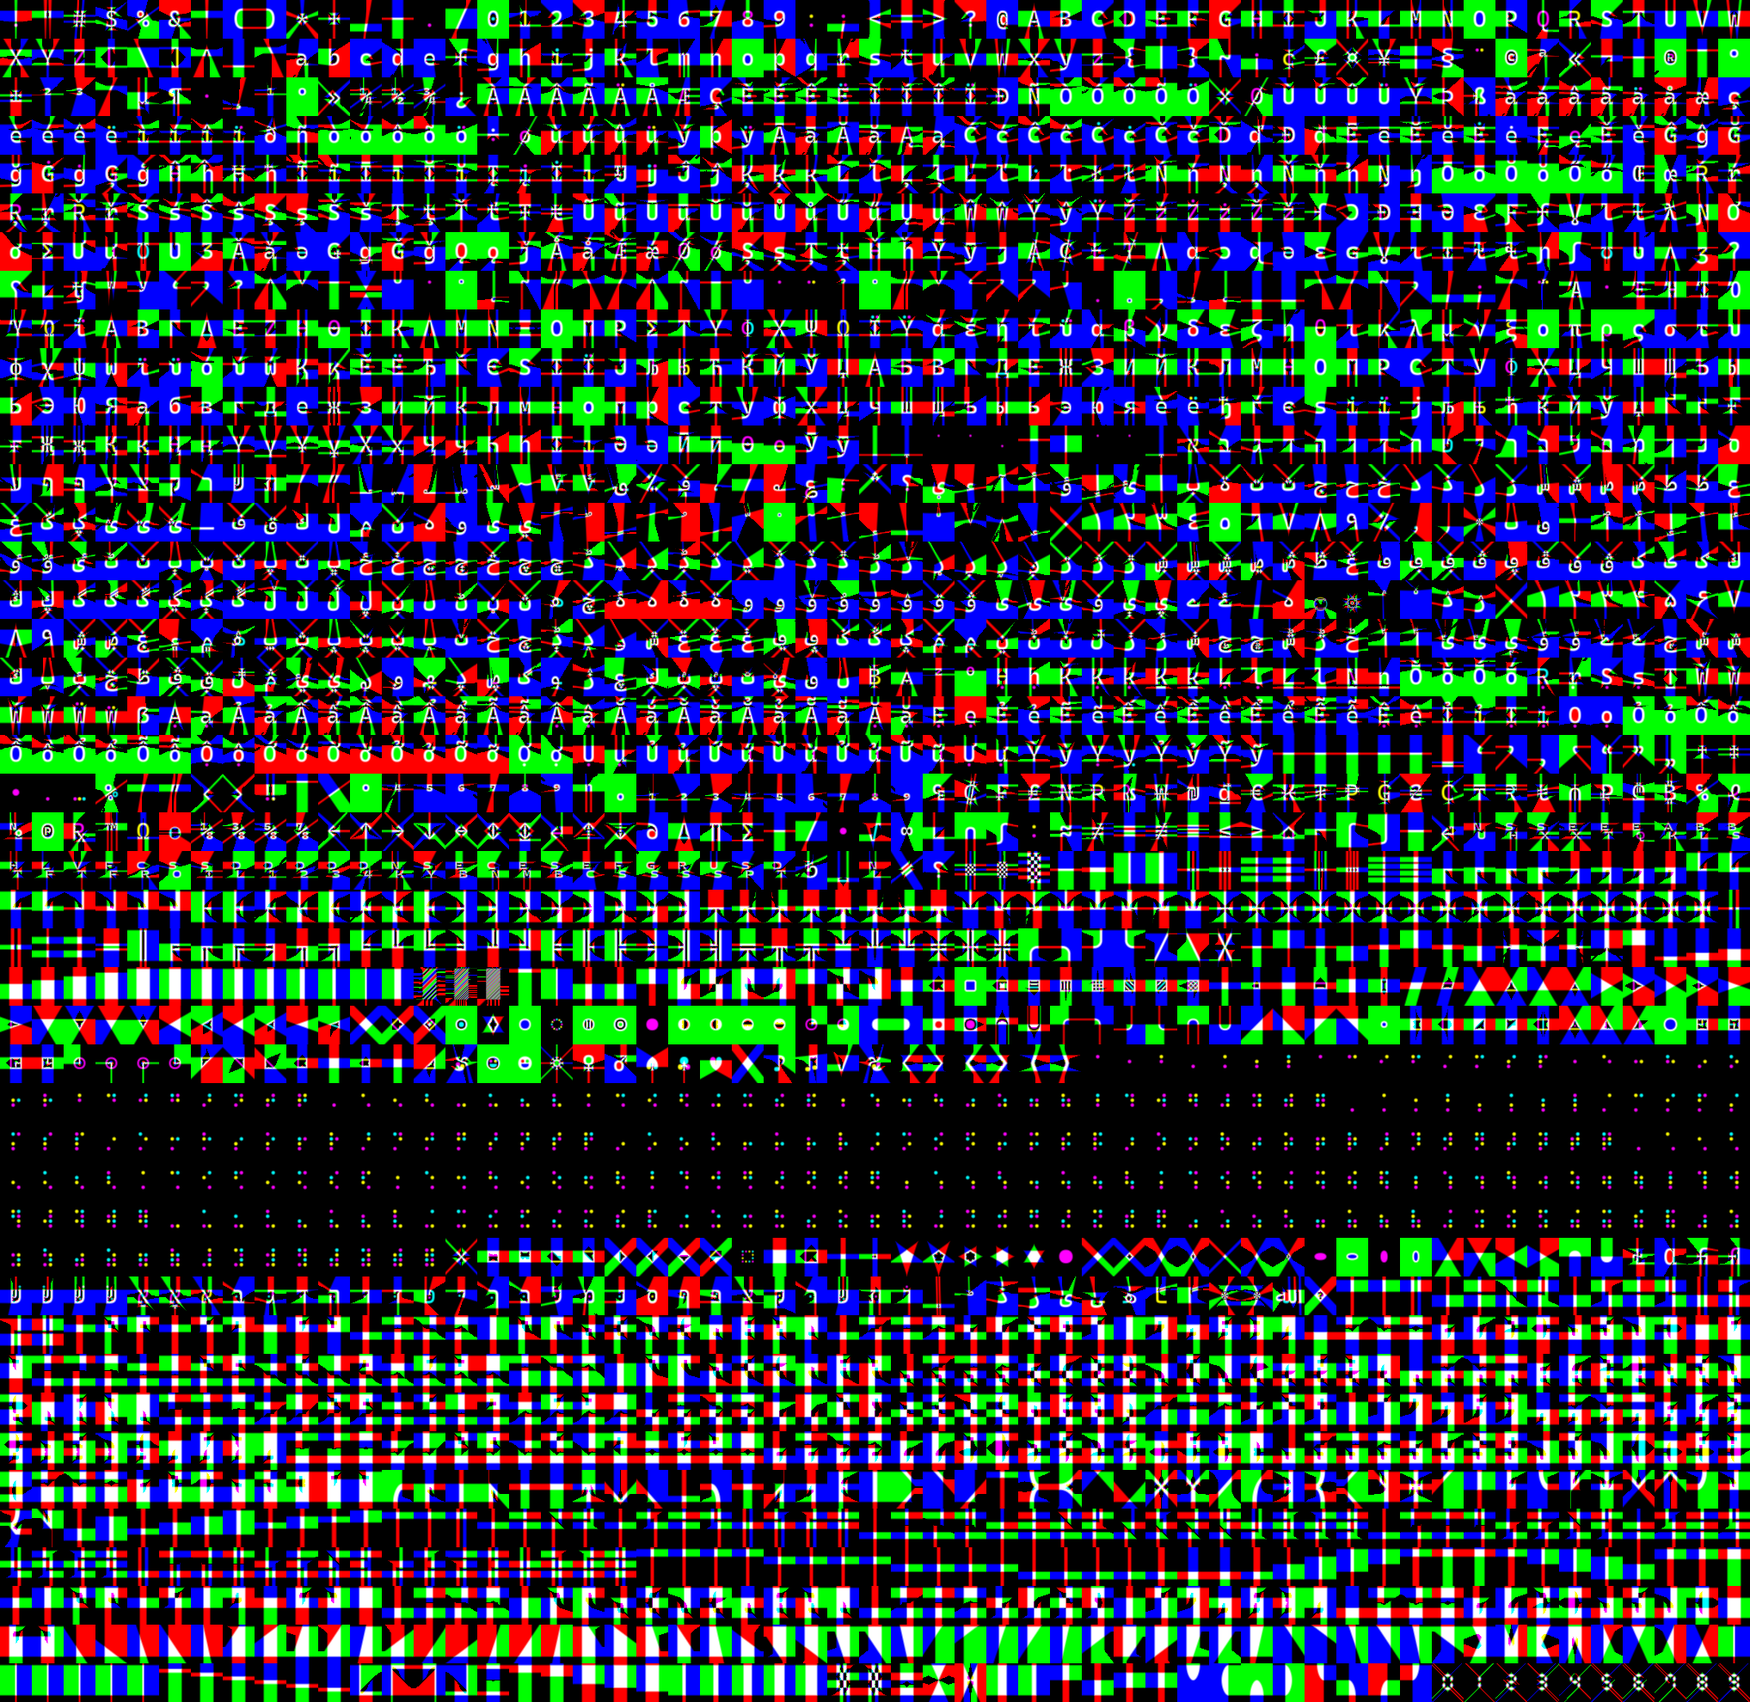
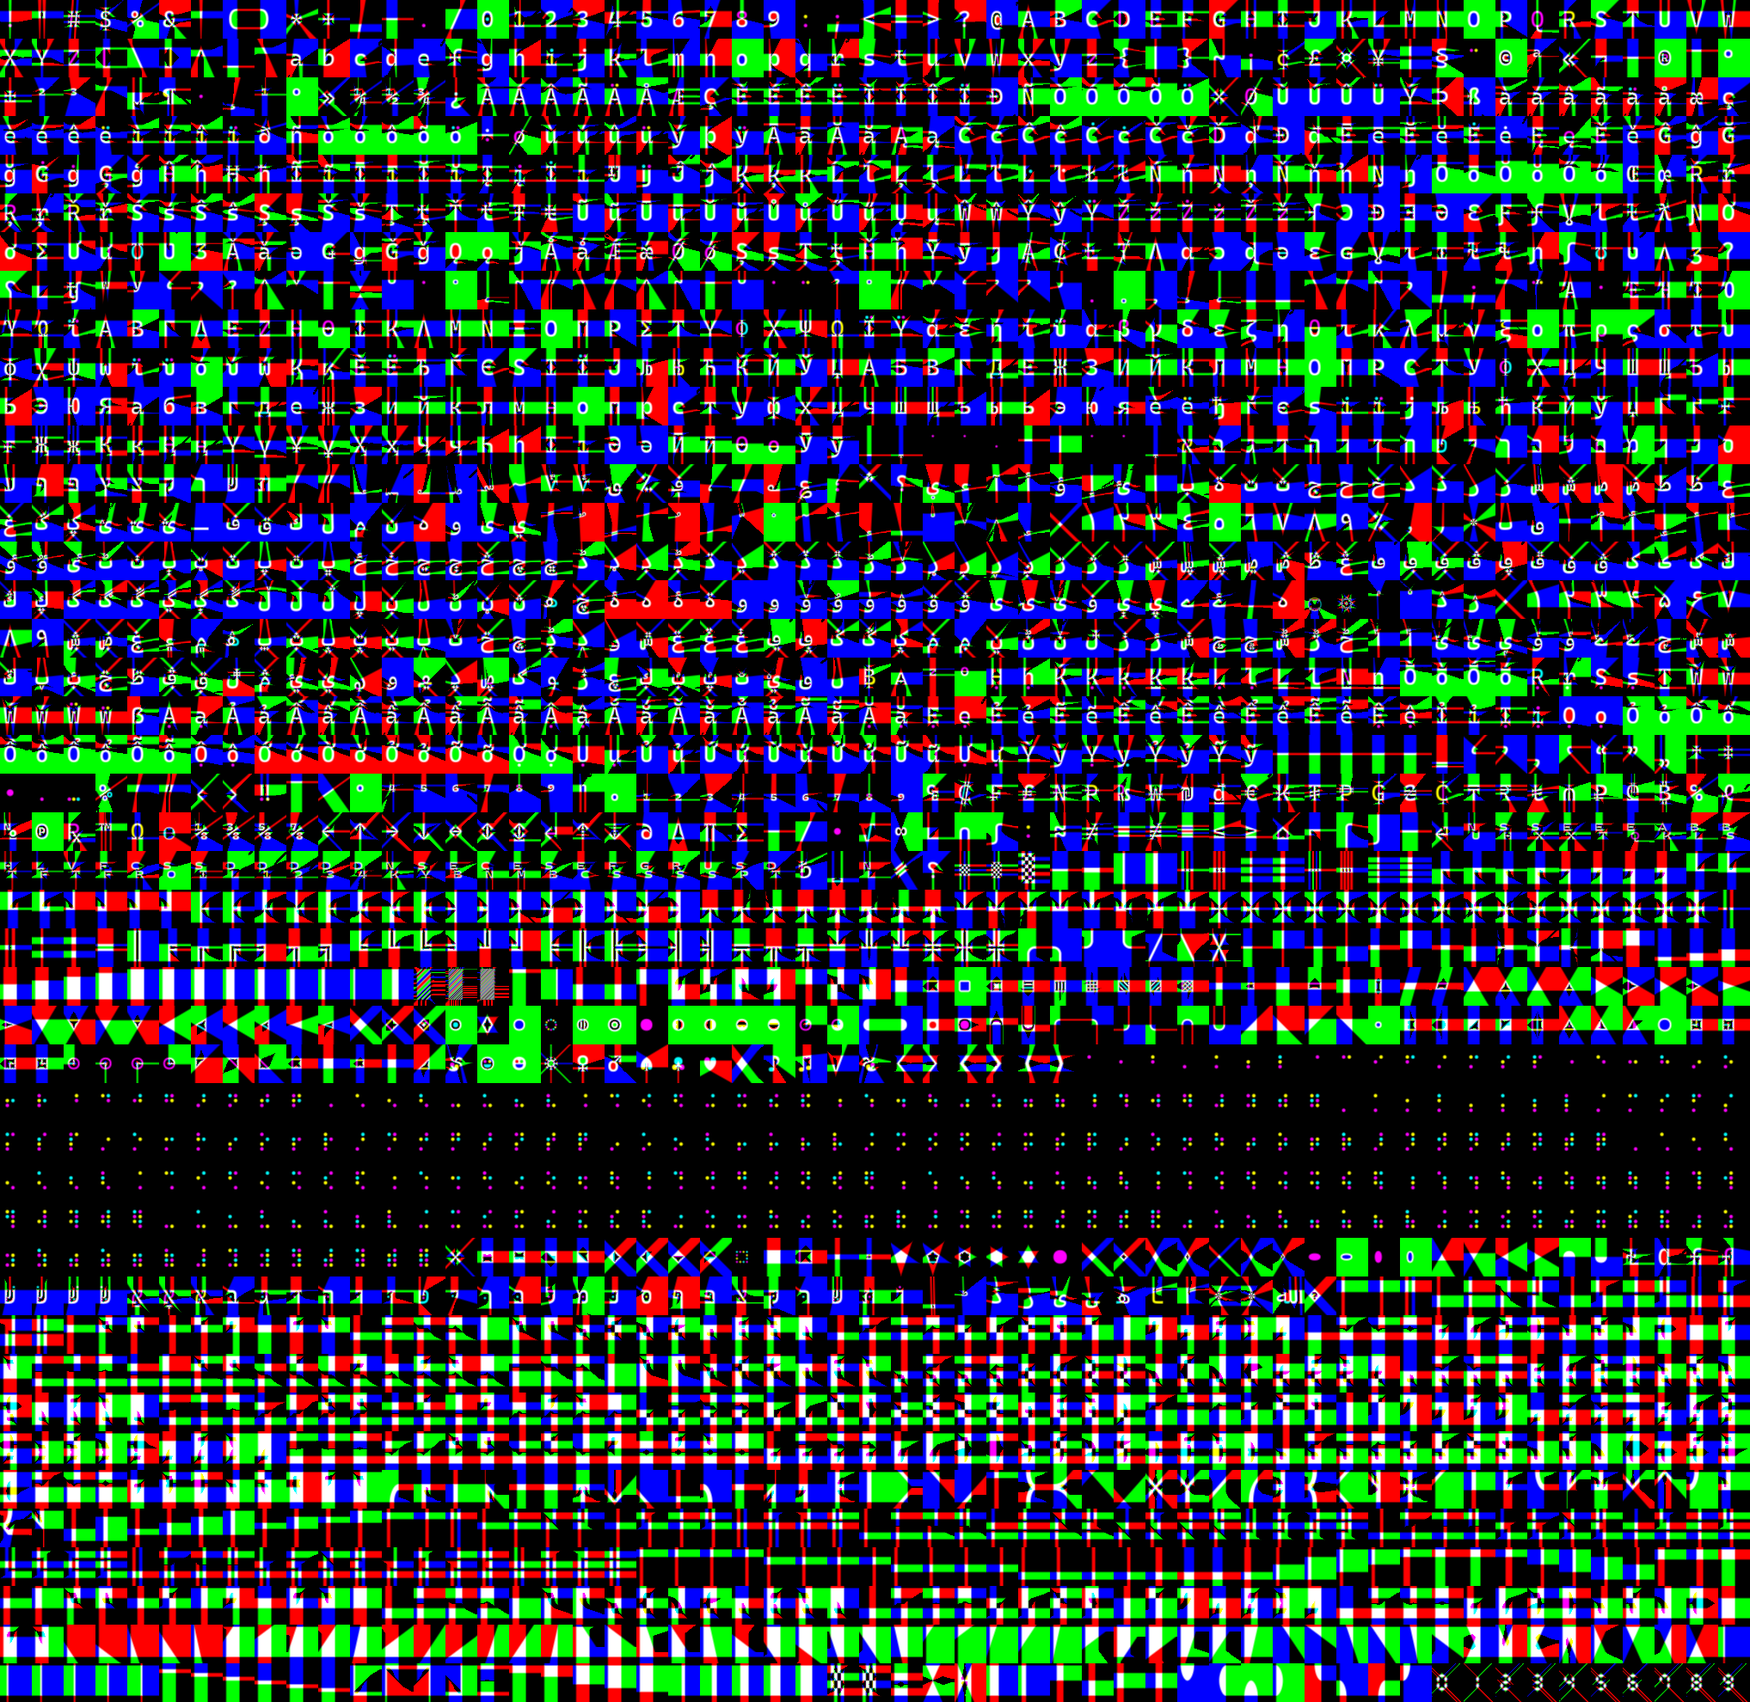
fix box character spacing

diff --git a/packages/core/src/TextEditorExtension.ts b/packages/core/src/TextEditorExtension.ts
@@ -14,6 +14,7 @@ import {
   applyFontFamilyToSelected,
   applyFontSizeToSelected,
   applyItalicToSelected,
+  applyLetterSpacingToSelected,
   applyLineHeightToSelected,
   applyUnderlineToSelected,
   getSelectionAlignment,
@@ -45,9 +46,14 @@ declare module '@infinitecanvas/core' {
       setUnderline: (underline: boolean) => void
       setAlignment: (alignment: TextAlign) => void
       setColor: (color: string) => void
-      setFontSize: (fontSize: number) => void
+      setFontSize: (fontSizePx: number) => void
       setFontFamily: (fontFamily: FontFamily) => void
-      setTextProperties: (properties: { fontFamily: FontFamily; fontSize: number; lineHeight: number }) => void
+      setTextProperties: (properties: {
+        fontFamily: FontFamily
+        fontSizePx: number
+        lineHeight: number
+        letterSpacingEm: number
+      }) => void
     }
   }
 
@@ -232,11 +238,11 @@ export class TextEditorExtension extends BaseExtension {
           send(CoreCommand.UpdateFromSnapshot, snapshot)
           send(CoreCommand.UpdateTransformBox)
         },
-        setFontSize: async (fontSize: number) => {
+        setFontSize: async (fontSizePx: number) => {
           if (!this.blockContainer) return
 
-          const snapshot = await applyFontSizeToSelected(state, this.blockContainer, fontSize)
-          console.log('setFontSize', fontSize, snapshot)
+          const snapshot = await applyFontSizeToSelected(state, this.blockContainer, fontSizePx)
+          console.log('setFontSize', fontSizePx, snapshot)
           send(CoreCommand.UpdateFromSnapshot, snapshot)
           send(CoreCommand.UpdateTransformBox)
         },
@@ -250,32 +256,40 @@ export class TextEditorExtension extends BaseExtension {
 
           this.mostRecentFontFamily.value = fontFamily
         },
-        setTextProperties: async (properties: { fontFamily: FontFamily; fontSize: number; lineHeight: number }) => {
+        setTextProperties: async (properties: {
+          fontFamily: FontFamily
+          fontSizePx: number
+          lineHeight: number
+          letterSpacingEm: number
+        }) => {
           // all these properties affect the text block size, so we need to apply them all at once
           if (!this.blockContainer) return
 
-          const { fontFamily, fontSize, lineHeight } = properties
+          console.log('setTextProperties', properties)
 
+          const { fontFamily, fontSizePx, lineHeight, letterSpacingEm } = properties
           await FontLoader.loadFonts([fontFamily])
 
           await applyFontFamilyToSelected(state, this.blockContainer, fontFamily.name)
+          await applyLetterSpacingToSelected(state, this.blockContainer, letterSpacingEm)
 
           const snapshot = await applyLineHeightToSelected(state, this.blockContainer, lineHeight)
 
           for (const id of Object.keys(snapshot)) {
             snapshot[id].Text.fontFamily = fontFamily.name
+            snapshot[id].Text.letterSpacingEm = letterSpacingEm
           }
 
           for (const id of Object.keys(snapshot)) {
             const text = state.getComponent<Text>(Text, id).value
             if (!text) continue
 
-            const factor = fontSize / text.fontSize
+            const factor = fontSizePx / text.fontSizePx
 
             snapshot[id].Block.width = Number(snapshot[id].Block.width) * factor
             snapshot[id].Block.height = Number(snapshot[id].Block.height) * factor
 
-            snapshot[id].Text.fontSize = fontSize
+            snapshot[id].Text.fontSizePx = fontSizePx
           }
 
           send(CoreCommand.UpdateFromSnapshot, snapshot)

diff --git a/examples/asciinotes-com/src/extensions/ascii/materials/LetterMaterial.ts b/examples/asciinotes-com/src/extensions/ascii/materials/LetterMaterial.ts
@@ -12,7 +12,6 @@ import {
   mix,
   mod,
   mul,
-  or,
   sub,
   texture,
   uint,
@@ -59,13 +58,15 @@ export class LetterMaterial extends NodeMaterial {
     this.unicodeMap = unicodeMap
     this.transparent = true
 
+    atlas.generateMipmaps = false
     this.atlas = uniform(atlas)
 
     this.chars = uniform<DataTexture>(
       new DataTexture(new Uint32Array(cols * rows), cols, rows, RedIntegerFormat, UnsignedIntType),
     )
     this.colors = uniform<DataTexture>(new DataTexture(new Uint8Array(4 * cols * rows), cols, rows, RGBAFormat))
-    this.grid = uniform(new Vector2(cols, rows), 'vec2')
+
+    this.grid = uniform(new Vector2(cols, rows), 'uvec2')
     this.atlasGrid = uniform(new Vector2().fromArray(fontData.atlasGrid), 'uvec2')
     this.atlasCellSize = uniform(new Vector2().fromArray(fontData.atlasCellSize), 'uvec2')
     this.atlasSize = uniform(new Vector2(atlas.width, atlas.height), 'uvec2')
@@ -79,7 +80,7 @@ export class LetterMaterial extends NodeMaterial {
 
     const vuv = uv()
 
-    const scaledUv = mul(vec2(vuv.x, sub(1.0, vuv.y)), div(this.grid, vec2(cols, rows)))
+    const scaledUv = mul(vec2(vuv.x, sub(1.0, vuv.y)), div(vec2(this.grid), vec2(cols, rows)))
     const charIndex = uint(texture(this.chars.value, scaledUv).r)
 
     const atlasCol = float(mod(charIndex, this.atlasGrid.x))
@@ -94,29 +95,17 @@ export class LetterMaterial extends NodeMaterial {
     // Map local UV within tile (fractional part) to atlas cell UV bounds
     const local = fract(mul(vuv, this.grid))
 
-    // Apply scaling for highlight effect
-    const highlighted = or(this.hovered, this.selected)
-    const highlightScaleInv = float(0.9)
-    const scaleAmount = mix(float(1.0), highlightScaleInv, highlighted)
-
-    // Center and scale the local UV coordinates
-    const centeredLocal = sub(local, vec2(0.5, 0.5))
-    const scaledLocal = add(mul(centeredLocal, scaleAmount), vec2(0.5, 0.5))
-
     // Calculate horizontal advance offset (centered)
     const dx = sub(x2, x1)
-    const advanceOffset = mul(dx, sub(1.0, this.charAdvance.value), 0.5)
+    const originX = mul(dx, fontData.originX)
     const advanceWidth = mul(dx, this.charAdvance.value)
 
     // Calculate vertical advance offset (for line spacing)
     const dy = sub(y2, y1)
-    const lineOffset = mul(dy, sub(1.0, this.lineSpacing.value), 0.5)
+    const originY = mul(dy, sub(1.0, this.lineSpacing.value), 0.5)
     const lineHeight = mul(dy, this.lineSpacing.value)
 
-    const atlasUV = vec2(
-      add(x1, advanceOffset, mul(scaledLocal.x, advanceWidth)),
-      add(y1, lineOffset, mul(scaledLocal.y, lineHeight)),
-    )
+    const atlasUV = vec2(add(x1, originX, mul(local.x, advanceWidth)), add(y1, originY, mul(local.y, lineHeight)))
 
     const s = texture(this.atlas.value, atlasUV)
 
@@ -125,7 +114,7 @@ export class LetterMaterial extends NodeMaterial {
 
     const textColor = texture(this.colors.value, scaledUv)
 
-    this.colorNode = mix(vec4(this.backgroundColor, textColor.a), textColor, alpha)
+    this.fragmentNode = mix(vec4(this.backgroundColor, textColor.a), textColor, alpha)
   }
 
   public setCharAtPosition(char: string, row: number, col: number): void {

diff --git a/packages/core/src/webComponents/toolbar/TextTool/text-tool.ts b/packages/core/src/webComponents/toolbar/TextTool/text-tool.ts
@@ -1,11 +1,10 @@
-import { InfiniteCanvas } from '@infinitecanvas/core'
-import { Block } from '@infinitecanvas/core/components'
-import { ICToolbarIconButton } from '@infinitecanvas/core/elements'
-import { createSnapshot } from '@infinitecanvas/core/helpers'
 import { html } from 'lit'
 import { customElement } from 'lit/decorators.js'
 
-import { Text } from '../../../components'
+import { InfiniteCanvas } from '../../../InfiniteCanvas'
+import { Block, Text } from '../../../components'
+import { createSnapshot } from '../../../helpers/createSnapshot'
+import { ICToolbarIconButton } from '../../elements'
 
 @customElement('ic-text-tool')
 export class ICTextTool extends ICToolbarIconButton {
@@ -33,7 +32,7 @@ export class ICTextTool extends ICToolbarIconButton {
     const lineHeight = 1.2
     const text = new Text({
       fontFamily: fontFamily.name,
-      fontSize: 24 / lineHeight,
+      fontSizePx: 24 / lineHeight,
       lineHeight,
     })
 
@@ -59,8 +58,9 @@ export class ICTextTool extends ICToolbarIconButton {
     const text = new Text({
       content: 'text',
       fontFamily: 'CascadiaMono',
-      fontSize: 20,
+      fontSizePx: 20,
       lineHeight: 1.2,
+      letterSpacingEm: 0.0141,
     })
 
     const snapshot = createSnapshot(block, [text])

diff --git a/packages/core/src/textUtils.ts b/packages/core/src/textUtils.ts
@@ -117,9 +117,9 @@ export function getSelectionColor(state: State): string | null {
 export async function applyFontSizeToSelected(
   state: State,
   blockContainer: HTMLElement,
-  fontSize: number,
+  fontSizePx: number,
 ): Promise<Snapshot> {
-  return applyTextPropertyToSelected(state, blockContainer, 'fontSize', fontSize)
+  return applyTextPropertyToSelected(state, blockContainer, 'fontSizePx', fontSizePx)
 }
 
 export async function applyFontFamilyToSelected(
@@ -128,6 +128,14 @@ export async function applyFontFamilyToSelected(
   fontFamily: string,
 ): Promise<Snapshot> {
   return applyTextPropertyToSelected(state, blockContainer, 'fontFamily', fontFamily)
+}
+
+export async function applyLetterSpacingToSelected(
+  state: State,
+  blockContainer: HTMLElement,
+  letterSpacingEm: number,
+): Promise<Snapshot> {
+  return applyTextPropertyToSelected(state, blockContainer, 'letterSpacingEm', letterSpacingEm)
 }
 
 export async function applyLineHeightToSelected(

diff --git a/examples/asciinotes-com/src/extensions/ascii/systems/UpdateEnforceGrid.ts b/examples/asciinotes-com/src/extensions/ascii/systems/UpdateEnforceGrid.ts
@@ -1,7 +1,6 @@
 import { BaseSystem } from '@infinitecanvas/core'
-import { Block } from '@infinitecanvas/core/components'
+import { Block, Persistent } from '@infinitecanvas/core/components'
 import { ArrowHandle, ElbowArrow } from '@infinitecanvas/extension-arrows'
-import { Shape } from '../components'
 
 const EPS = 0.0001
 
@@ -10,12 +9,12 @@ function approximately(a: number, b: number): boolean {
 }
 
 function round(value: number, step: number): number {
-  const result = Math.floor(value / step) * step
+  const result = Math.round(value / step) * step
   return approximately(result, 0) ? step : result
 }
 
 export class UpdateEnforceGrid extends BaseSystem {
-  private readonly shapes = this.query((q) => q.changed.with(Block, Shape).trackWrites.write)
+  private readonly shapes = this.query((q) => q.changed.with(Persistent, Block).trackWrites.write.without(ElbowArrow))
 
   private readonly arrows = this.query((q) => q.changed.with(ElbowArrow, Block).trackWrites)
 

diff --git a/examples/asciinotes-com/src/App.vue b/examples/asciinotes-com/src/App.vue
@@ -125,26 +125,27 @@ const fontData = {
   atlasGrid: [55, 44] as const,
   atlasCellSize: [37, 45] as const,
   clearColor: 0x00000000,
-  lineSpacing: 0.71, // magic number based on visual alignment
+  lineSpacing: 0.69, // magic number based on visual alignment
   charAdvance: 0.42, // magic number based on visual alignment
-  charShiftLeft: 0,
-  charShiftTop: 0,
+  originX: 0.13176470588235292,
   backgroundColor: "#ffffff", // jules purple - 1d0245
 };
 
 const asciiFonts = [
   {
     fontFamily: "CascadiaMono",
-    fontSize: 20,
+    fontSizePx: 20,
     lineHeight: 1.2,
+    letterSpacingEm: 0.0141,
   },
 ];
 
 for (const figletFont of figletFonts) {
   asciiFonts.push({
     fontFamily: figletFont.name,
-    fontSize: 24 * figletFont.lines,
+    fontSizePx: 24 * figletFont.lines,
     lineHeight: 1,
+    letterSpacingEm: 0,
   });
 }
 

diff --git a/packages/extension-ink/src/webComponents/toolbar/ink-tool.ts b/packages/extension-ink/src/webComponents/toolbar/ink-tool.ts
@@ -20,27 +20,6 @@ export class ICInkTool extends ICToolbarIconButton {
     InfiniteCanvas.instance?.commands.core.setControls({
       leftMouseTool: 'ink',
     })
-
-    // const block = new Block({
-    //   tag: 'ic-sticky-note',
-    //   width: 300,
-    //   height: 300,
-    // })
-    // const color = new Color({
-    //   red: Math.floor(Math.random() * 256),
-    //   green: Math.floor(Math.random() * 256),
-    //   blue: Math.floor(Math.random() * 256),
-    // })
-    // const text = new Text({
-    //   fontSize: 40,
-    //   verticalAlign: VerticalAlign.Top,
-    //   constrainWidth: true,
-    // })
-    // const snapshot = getSnapshot(block, [text, color])
-    // InfiniteCanvas.instance?.commands.core.setControls({
-    //   leftMouseTool: 'sticky-note',
-    //   heldSnapshot: JSON.stringify(snapshot),
-    // })
   }
 }
 

diff --git a/packages/core/src/helpers/createSnapshot.ts b/packages/core/src/helpers/createSnapshot.ts
@@ -1,11 +1,13 @@
 import type { BaseComponent } from '../BaseComponent'
 import type { Snapshot } from '../History'
-import type { Block } from '../components'
+import { Block } from '../components'
 
 export function createSnapshot(block: Block, components: BaseComponent[]): Snapshot {
   if (!block.id) {
     block.id = crypto.randomUUID()
   }
+
+  console.log('Creating snapshot for block:', Block.constructor.name)
 
   const snapshot: Snapshot = {
     [block.id]: {
@@ -17,6 +19,8 @@ export function createSnapshot(block: Block, components: BaseComponent[]): Snaps
     const componentName = component.constructor.name
     snapshot[block.id][componentName] = component.toJson()
   }
+
+  console.log('Snapshot created:', snapshot)
 
   return snapshot
 }

diff --git a/examples/asciinotes-com/src/extensions/ascii/types.ts b/examples/asciinotes-com/src/extensions/ascii/types.ts
@@ -10,8 +10,9 @@ export type Assets = {
 
 export const AsciiFont = z.object({
   fontFamily: z.string(),
-  fontSize: z.number(),
+  fontSizePx: z.number(),
   lineHeight: z.number(),
+  letterSpacingEm: z.number(),
 })
 
 export type AsciiFont = z.infer<typeof AsciiFont>
@@ -23,8 +24,7 @@ export const FontData = z.object({
   atlasCellSize: z.tuple([z.number().int().min(1), z.number().int().min(1)]).readonly(),
   lineSpacing: z.number().min(0),
   charAdvance: z.number().min(0),
-  charShiftLeft: z.number().min(0),
-  charShiftTop: z.number().min(0),
+  originX: z.number().min(0),
   unicodeMapPath: z.string(),
   backgroundColor: z.string().regex(/^#[0-9A-Fa-f]{6}$/),
 })

diff --git a/packages/core/src/components/Text.ts b/packages/core/src/components/Text.ts
@@ -4,9 +4,10 @@ import { Type, component, field } from '@lastolivegames/becsy'
 @component
 export class Text extends BaseComponent {
   @field.dynamicString(1e4) public declare content: string
-  @field({ type: Type.float64, default: 24 }) public declare fontSize: number
+  @field({ type: Type.float64, default: 24 }) public declare fontSizePx: number
   @field({ type: Type.dynamicString(36), default: 'Figtree' }) public declare fontFamily: string
   @field({ type: Type.float64, default: 1.2 }) public declare lineHeight: number
+  @field.float64 public declare letterSpacingEm: number
   @field.boolean public declare constrainWidth: boolean
 
   public hasContent(): boolean {

diff --git a/packages/core/src/webComponents/blocks/Text.ts b/packages/core/src/webComponents/blocks/Text.ts
@@ -323,10 +323,12 @@ export class ICText extends ICEditableBlock {
     const styles: Record<string, string> = {
       'font-family': text.fontFamily,
       'line-height': `${text.lineHeight}`,
-      'font-size': `${text.fontSize}px`,
+      'font-size': `${text.fontSizePx}px`,
       'pointer-events': this.isEditing ? 'auto' : 'none',
       'text-align': this.defaultAlignment.toLowerCase(),
       'white-space': this.text.constrainWidth ? 'pre-wrap' : 'pre',
+      'letter-spacing': `${text.letterSpacingEm}em`,
+      // 'letter-spacing': '0.0141em',
       display: 'block',
       'min-width': '2px',
       width: this.text.constrainWidth ? '100%' : 'fit-content',

diff --git a/examples/asciinotes-com/src/extensions/ascii/systems/RenderText.ts b/examples/asciinotes-com/src/extensions/ascii/systems/RenderText.ts
@@ -114,9 +114,11 @@ export class RenderText extends BaseSystem {
   }
 
   private async updateText(textEntity: Entity): Promise<void> {
-    const { id } = textEntity.read(Block)
+    const block = textEntity.read(Block)
 
-    const mesh = this.resources.scene.getObjectByName(id) as Mesh | undefined
+    console.log('UPDATE TEXT RENDER', block.width, block.width / this.grid.colWidth)
+
+    const mesh = this.resources.scene.getObjectByName(block.id) as Mesh | undefined
     if (!mesh) return
 
     const element = await showElement(textEntity, this.resources, {})
